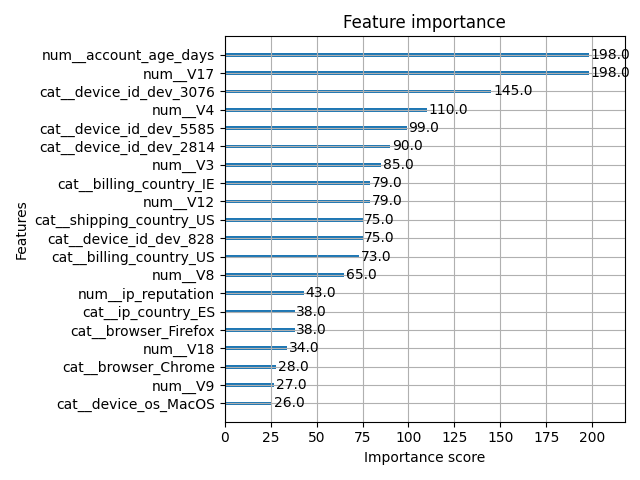
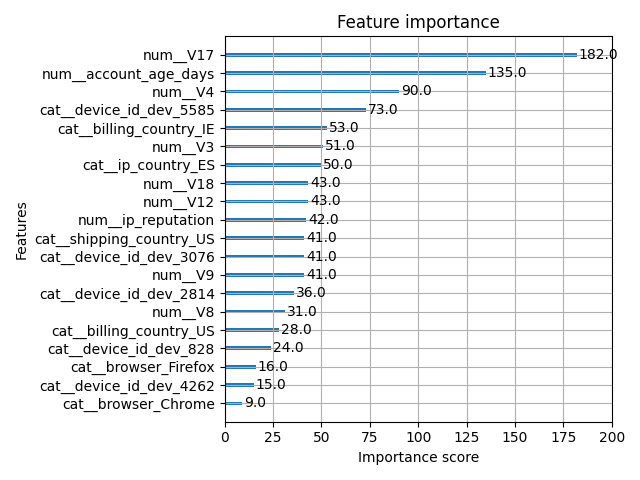
FPN-7 | Refactor XGBoost training & testing scripts with utils loader, error handling, and cleanup

diff --git a/scripts/train_xgboost.py b/scripts/train_xgboost.py
@@ -1,4 +1,11 @@
 #!/usr/bin/env python3
+import sys
+from pathlib import Path
+
+# Add project root to PYTHONPATH
+ROOT = Path(__file__).resolve().parents[1]
+sys.path.append(str(ROOT))
+
 """
 Train XGBoost model with hyperparameter tuning and threshold optimization.
 Saves:
@@ -6,7 +13,6 @@ Saves:
 - artifacts/xgb_metrics.json
 - artifacts/plots/xgb_feature_importance.png
 """
-
 import json
 from pathlib import Path
 import joblib
@@ -15,6 +21,9 @@ import pandas as pd
 import matplotlib.pyplot as plt
 
 from xgboost import XGBClassifier, plot_importance
+from src.utils.data_loader import load_dataset
+
+
 from sklearn.metrics import (
     precision_score,
     recall_score,
@@ -45,21 +54,20 @@ TEST_PATH = DATA_DIR / "test.csv"
 # ---------------------------
 print("📥 Loading processed datasets...")
 
-train_df = pd.read_csv(TRAIN_PATH)
-val_df = pd.read_csv(VAL_PATH)
-test_df = pd.read_csv(TEST_PATH)
+# Optional safety: check files exist
+for path, name in [(TRAIN_PATH, "Training"), (VAL_PATH, "Validation"), (TEST_PATH, "Test")]:
+    if not path.exists():
+        raise FileNotFoundError(f"{name} data not found at {path}. "
+                                f"Please run the preprocessing script first.")
 
-X_train = train_df.drop(columns=["Class"])
-y_train = train_df["Class"]
-
-X_val = val_df.drop(columns=["Class"])
-y_val = val_df["Class"]
-
-X_test = test_df.drop(columns=["Class"])
-y_test = test_df["Class"]
+# Use shared loader from src.utils.data_loader
+train_df, X_train, y_train = load_dataset(TRAIN_PATH)
+val_df, X_val, y_val = load_dataset(VAL_PATH)
+test_df, X_test, y_test = load_dataset(TEST_PATH)
 
 print("✔ Data loaded.")
 print(f"Train: {X_train.shape}, Val: {X_val.shape}, Test: {X_test.shape}")
+
 
 # ---------------------------
 # Baseline Model
@@ -68,17 +76,19 @@ print("\n🚀 Training baseline XGBoost model...")
 
 scale_pos_weight = (y_train == 0).sum() / (y_train == 1).sum()
 
-baseline_xgb = XGBClassifier(
-    n_estimators=300,
-    learning_rate=0.05,
-    max_depth=6,
-    subsample=0.8,
-    colsample_bytree=0.8,
-    random_state=42,
-    scale_pos_weight=scale_pos_weight,
-    n_jobs=-1,
-    tree_method="hist"
-)
+XGB_CONFIG = {
+    "n_estimators": 300,
+    "learning_rate": 0.05,
+    "max_depth": 6,
+    "subsample": 0.8,
+    "colsample_bytree": 0.8,
+    "random_state": 42,
+    "scale_pos_weight": scale_pos_weight,
+    "n_jobs": -1,
+    "tree_method": "hist"
+}
+
+baseline_xgb = XGBClassifier(**XGB_CONFIG)
 
 baseline_xgb.fit(X_train, y_train)
 print("✔ Baseline model trained.")
@@ -89,9 +99,9 @@ print("✔ Baseline model trained.")
 print("\n🎯 Starting hyperparameter search...")
 
 param_grid = {
-    "max_depth": [3, 4, 5],
+    "max_depth": [3, 4, 5,6],
     "learning_rate": [0.01, 0.03, 0.05],
-    "n_estimators": [150, 200, 250],
+    "n_estimators": [150, 200, 250, 300],  # include baseline 300
     "subsample": [0.8, 0.9, 1.0],
     "colsample_bytree": [0.7, 0.8, 1.0],
 }
@@ -104,7 +114,7 @@ tuner = RandomizedSearchCV(
         tree_method="hist",
     ),
     param_distributions=param_grid,
-    n_iter=10,
+    n_iter=30,
     scoring="f1",
     cv=3,
     verbose=1,
@@ -126,7 +136,7 @@ print("\n📌 Optimizing probability threshold...")
 
 val_probs = best_xgb.predict_proba(X_val)[:, 1]
 
-thresholds = np.linspace(0.1, 0.9, 50)
+thresholds = np.linspace(0.1, 0.9, 90)
 best_f1 = 0
 best_t = 0.5
 
@@ -144,7 +154,18 @@ print(f"✔ Best F1: {best_f1:.4f}")
 # Final Evaluation Function
 # ---------------------------
 def evaluate(model, X, y, t):
-    probs = model.predict_proba(X)[:, 1]
+    """
+    Compute evaluation metrics for a given model, dataset, and threshold.
+    """
+    try:
+        probs = model.predict_proba(X)[:, 1]
+    except Exception as e:
+        raise RuntimeError(
+            "Error during evaluation: model.predict_proba(X) failed. "
+            "Check that X has the expected shape and that the model is fitted. "
+            f"Original error: {e}"
+        )
+
     preds = (probs >= t).astype(int)
 
     return {

diff --git a/scripts/test_xgb_model.py b/scripts/test_xgb_model.py
@@ -1,4 +1,12 @@
 #!/usr/bin/env python3
+
+import sys
+from pathlib import Path
+
+# Add project root to PYTHONPATH
+ROOT = Path(__file__).resolve().parents[1]
+sys.path.append(str(ROOT))
+
 """
 Quick sanity test for the trained XGBoost model.
 
@@ -13,6 +21,8 @@ import json
 import joblib
 import numpy as np
 import pandas as pd
+from src.utils.data_loader import load_dataset
+
 from sklearn.metrics import (
     precision_score,
     recall_score,
@@ -40,26 +50,45 @@ METRICS_PATH = ARTIFACT_DIR / "xgb_metrics.json"
 # Loading helpers
 # -------------------------------------------------------------------
 def load_data():
-    val_df = pd.read_csv(VAL_PATH)
-    test_df = pd.read_csv(TEST_PATH)
-
-    X_val = val_df.drop(columns=["Class"])
-    y_val = val_df["Class"]
-
-    X_test = test_df.drop(columns=["Class"])
-    y_test = test_df["Class"]
-
+    """
+    Load validation and test CSVs and split into:
+    - full DataFrames (val_df, test_df)
+    - features (X_val, X_test)
+    - labels (y_val, y_test)
+    """
+    val_df, X_val, y_val = load_dataset(VAL_PATH)
+    test_df, X_test, y_test = load_dataset(TEST_PATH)
     return val_df, X_val, y_val, test_df, X_test, y_test
 
 
-def load_model_and_threshold():
-    model = joblib.load(MODEL_PATH)
 
-    with open(METRICS_PATH, "r") as f:
-        metrics = json.load(f)
+def load_model_and_threshold():
+    if not MODEL_PATH.exists():
+        raise FileNotFoundError(
+            f"Model file not found at {MODEL_PATH}. "
+            f"Please run `train_xgboost.py` before loading the model."
+        )
+
+    if not METRICS_PATH.exists():
+        raise FileNotFoundError(
+            f"Metrics file not found at {METRICS_PATH}. "
+            f"Please ensure training completed successfully."
+        )
+
+    try:
+        model = joblib.load(MODEL_PATH)
+    except Exception as e:
+        raise RuntimeError(f"Failed to load model at {MODEL_PATH}: {e}")
+
+    try:
+        with open(METRICS_PATH, "r") as f:
+            metrics = json.load(f)
+    except Exception as e:
+        raise RuntimeError(f"Failed to load metrics JSON at {METRICS_PATH}: {e}")
 
     threshold = float(metrics.get("threshold", 0.5))
     return model, threshold
+
 
 
 # -------------------------------------------------------------------
@@ -92,6 +121,22 @@ def evaluate_split(model, X, y, threshold: float, split_name: str):
 # Show example transactions (TP / FN / FP)
 # -------------------------------------------------------------------
 def show_examples(df, y_true, proba, preds, split_name: str, k: int = 5):
+    """
+    Print example transactions for manual inspection grouped by prediction outcome.
+
+    Shows:
+      - True positives: fraud correctly detected
+      - False negatives: fraud missed
+      - False positives: non-fraud flagged as fraud
+
+    Args:
+        df: Original DataFrame with all features.
+        y_true: True labels (Series or array-like, 0/1).
+        proba: Predicted fraud probabilities from the model.
+        preds: Binary predicted labels (0/1) after thresholding.
+        split_name: Name of the split ("validation" or "test").
+        k: Max number of examples to show from each group.
+    """
     df_local = df.copy()
     df_local["y_true"] = y_true.values
     df_local["y_pred"] = preds

diff --git a/src/utils/data_loader.py b/src/utils/data_loader.py
@@ -1,0 +1,13 @@
+import pandas as pd
+
+def load_dataset(path):
+    """
+    Loads a CSV dataset and splits it into:
+    - full DataFrame
+    - X (features only)
+    - y (target column 'Class')
+    """
+    df = pd.read_csv(path)
+    X = df.drop(columns=["Class"])
+    y = df["Class"]
+    return df, X, y
